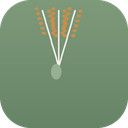
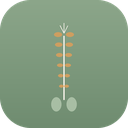
修复图标与测试提醒
- 重画扩展图标：清晰的稻穗造型（莫兰迪绿底+金色麦芒），修复上一版噪点模糊
- 测试提醒改用唯一通知 ID + requireInteraction，避免重复触发被覆盖/瞬间消失
- 测试提醒点击不再自动关闭面板，确保通知可见
- 版本 0.7.1

Changed region(s): [[0.25, 0.0312, 0.6562, 0.875]]

diff --git a/background.js b/background.js
@@ -189,12 +189,17 @@ async function openFarmTab() {
 // notifications are reachable/not blocked.
 function fireTestReminder() {
   const message = "你的作物即将成熟";
+  // Use a fresh id every time so repeated tests always re-deliver a visible
+  // notification (Chrome may merely replace a still-open notification with the
+  // same id). requireInteraction keeps it on screen until the user acts, making
+  // delivery unmistakable.
   return browser.notifications
-    .create("farm-reminder-test", {
+    .create("farm-reminder-test-" + Date.now(), {
       type: "basic",
       iconUrl: browser.runtime.getURL("icons/icon128.png"),
       title: "轻松农场 · 作物提醒",
       message,
+      requireInteraction: true,
     })
     .catch(() => {});
 }

diff --git a/popup.js b/popup.js
@@ -375,7 +375,7 @@ document.getElementById("open-farm").addEventListener("click", () => {
 });
 
 document.getElementById("test-reminder").addEventListener("click", () => {
-  browser.runtime.sendMessage({ type: "testReminder" }).then(() => window.close());
+  browser.runtime.sendMessage({ type: "testReminder" });
 });
 
 main();
